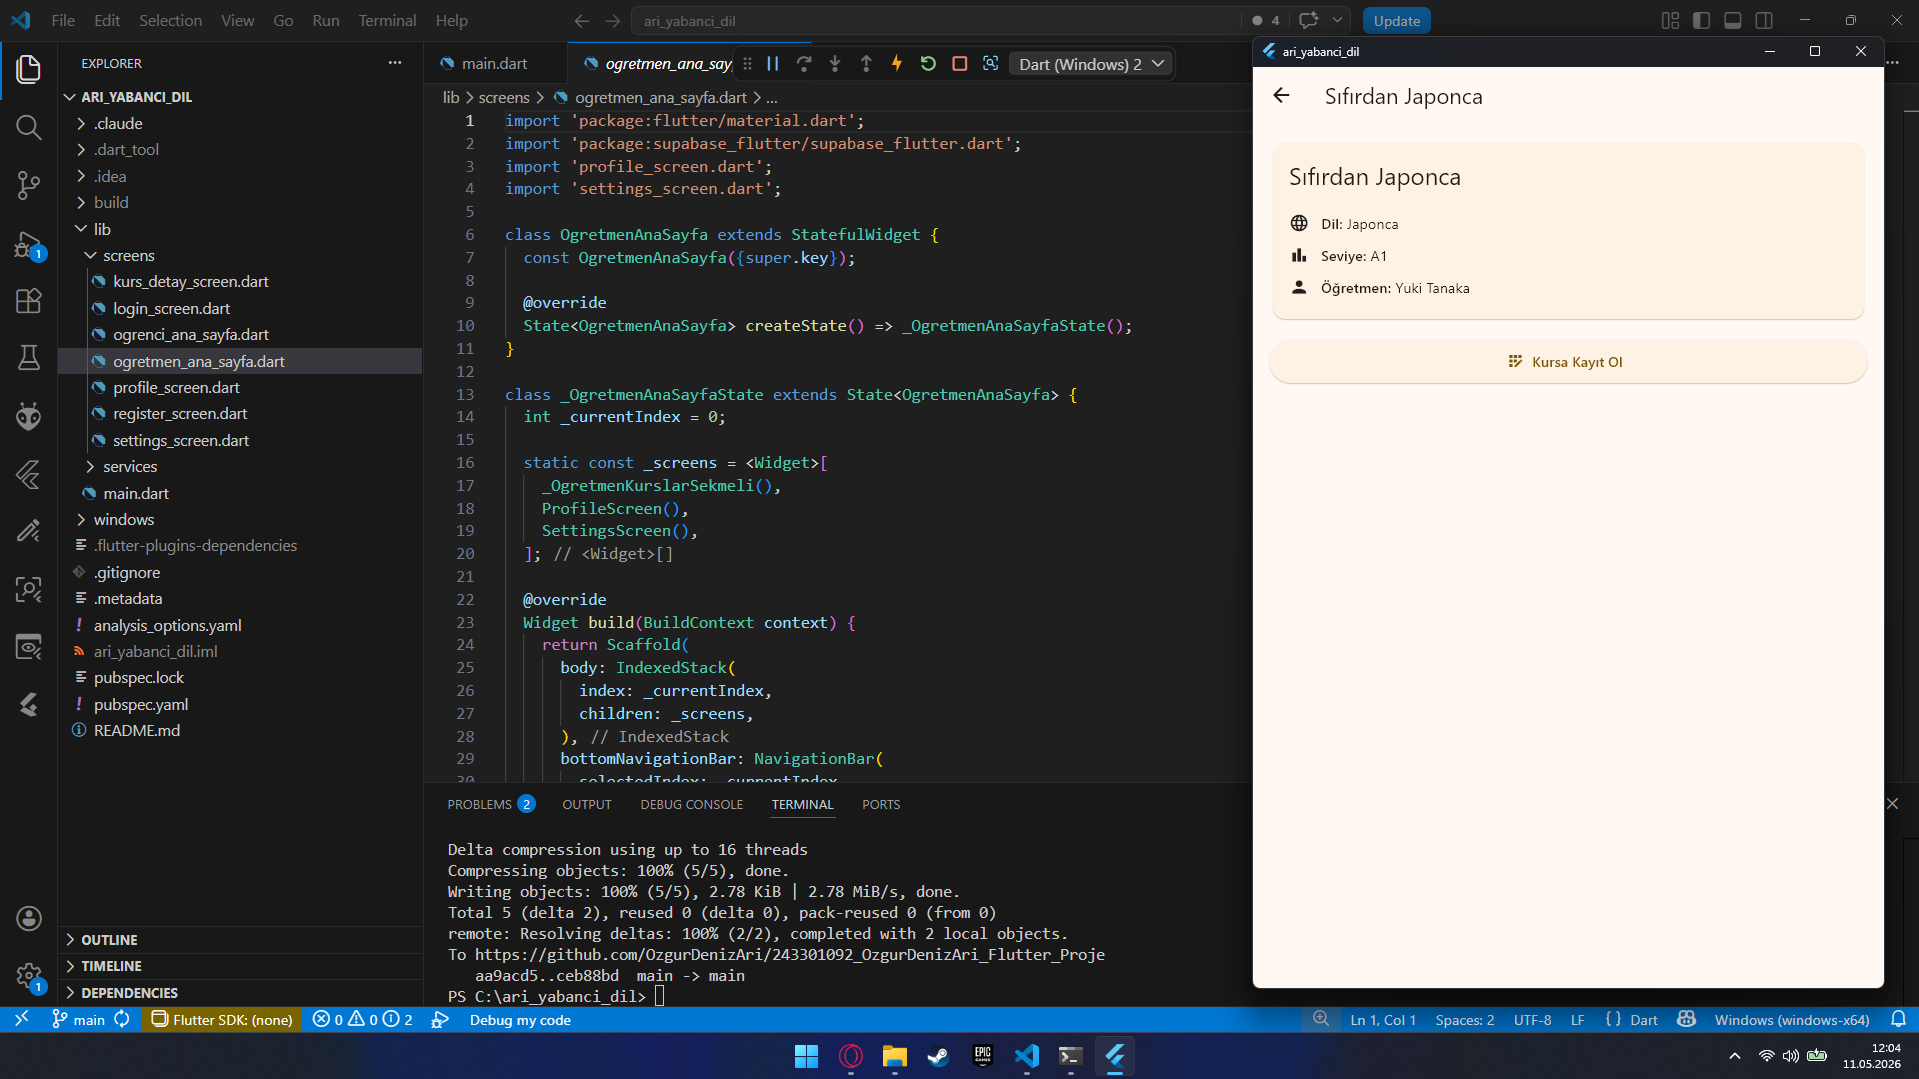
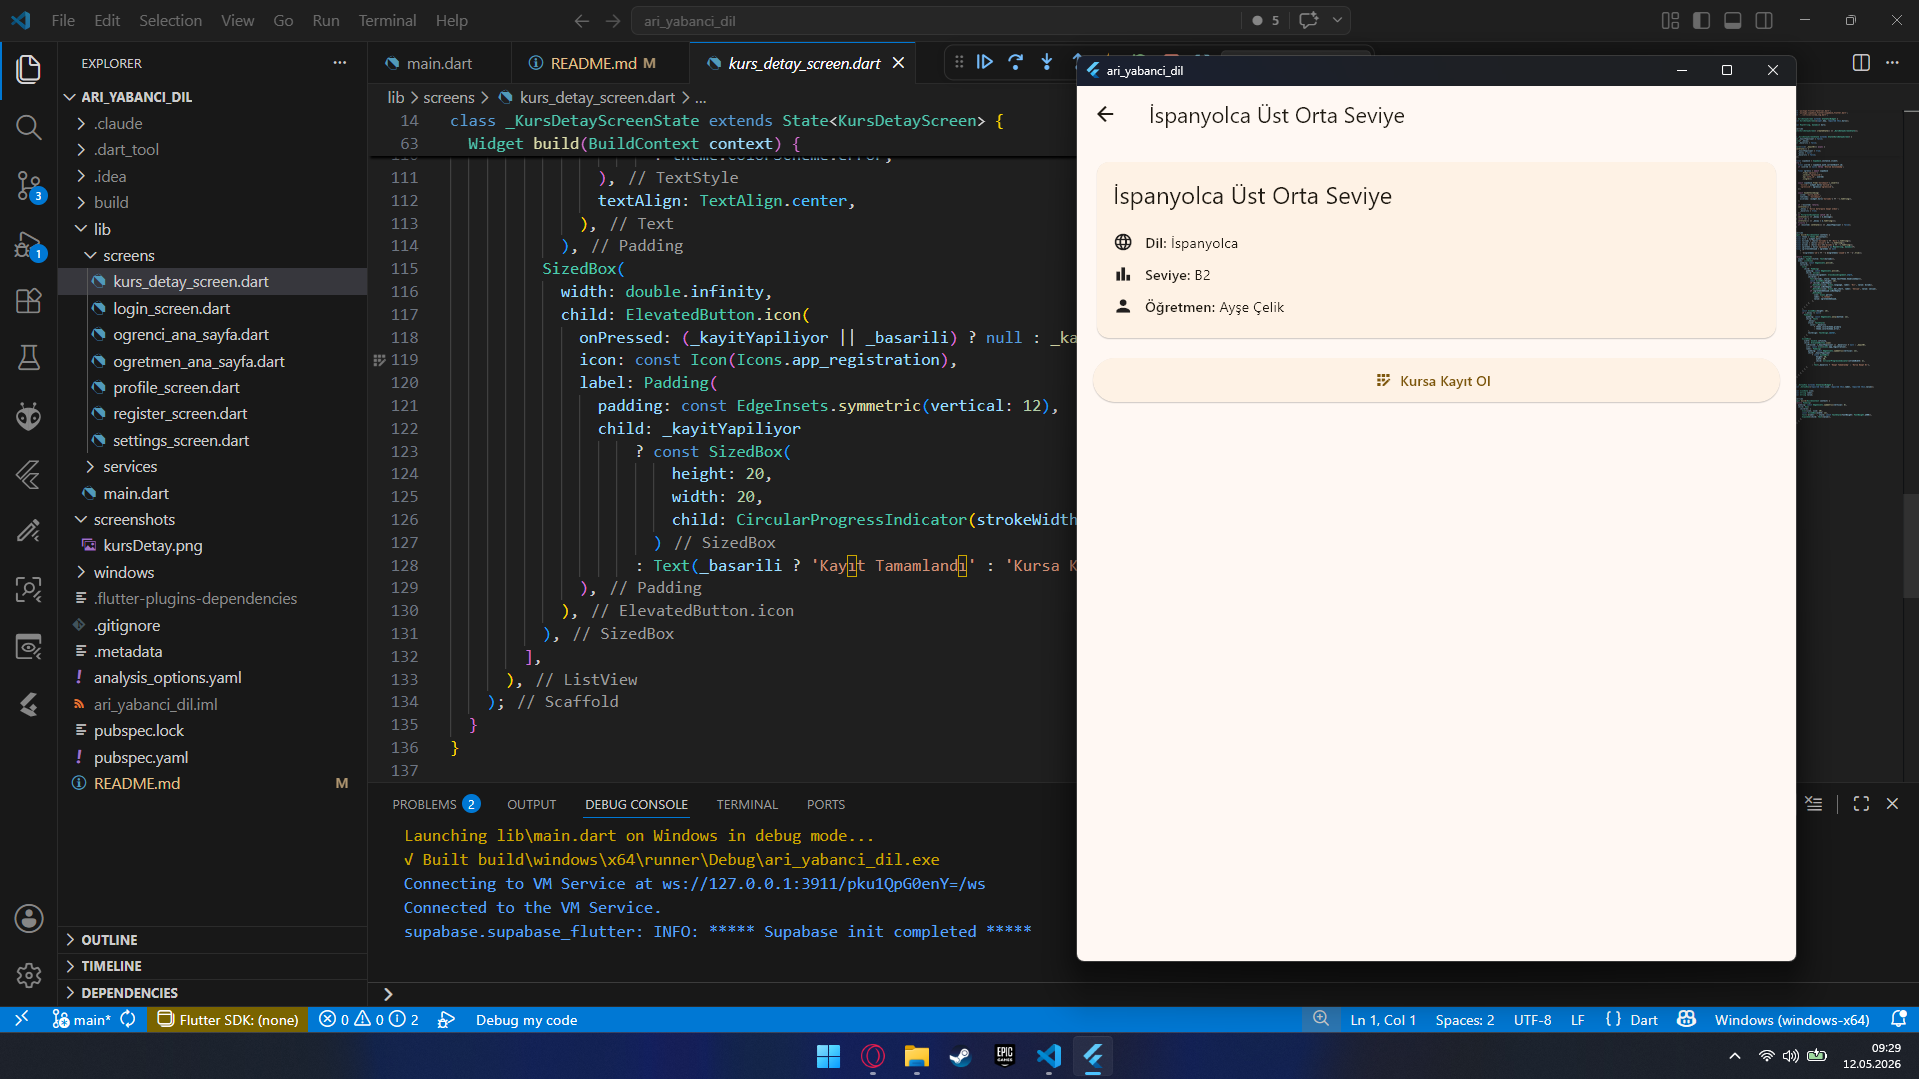
Test bilgileri ve ekran görüntüleri güncellendi

diff --git a/README.md b/README.md
@@ -15,11 +15,11 @@ Flutter ile geliştirilmiş, Supabase altyapılı bir dil okulu yönetim uygulam
 ## Test Hesapları
 
 **Öğrenci:**  
-E-posta: ilbeycavga@gmail.com  
+E-posta: 243301092@test.com  
 Şifre: 123456
 
 **Öğretmen:**  
-E-posta: oktay@mail.com  
+E-posta: ogretmen.test@mail.com  
 Şifre: 123456
 
 ## Ekran Görüntüleri
